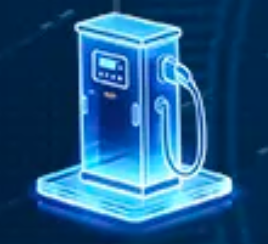
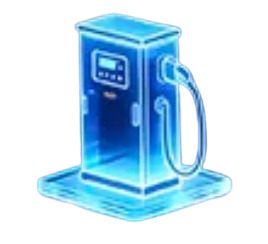
fix: 图片调整，去掉背景；

diff --git a/app/components/Header.vue b/app/components/Header.vue
@@ -149,7 +149,6 @@ const activeIndex = ref(
 )
 
 watch(activeMenu, (newVal) => {
-    debugger;
   activeIndex.value = menuList.value.findIndex((item: SubMenuItem) => item.route === newVal.route) || 0
 }, { immediate: true })
 

diff --git a/README.md b/README.md
@@ -18,6 +18,13 @@ pnpm install
 pnpm dev
 ```
 
+智能图像处理：
+
+```
+# 可以进行抠图、去掉背景等操作
+https://www.remove.bg/zh
+```
+
 ## Production
 
 构建打包命令:
@@ -26,5 +33,3 @@ pnpm dev
 # pnpm
 pnpm build
 ```
-
-
